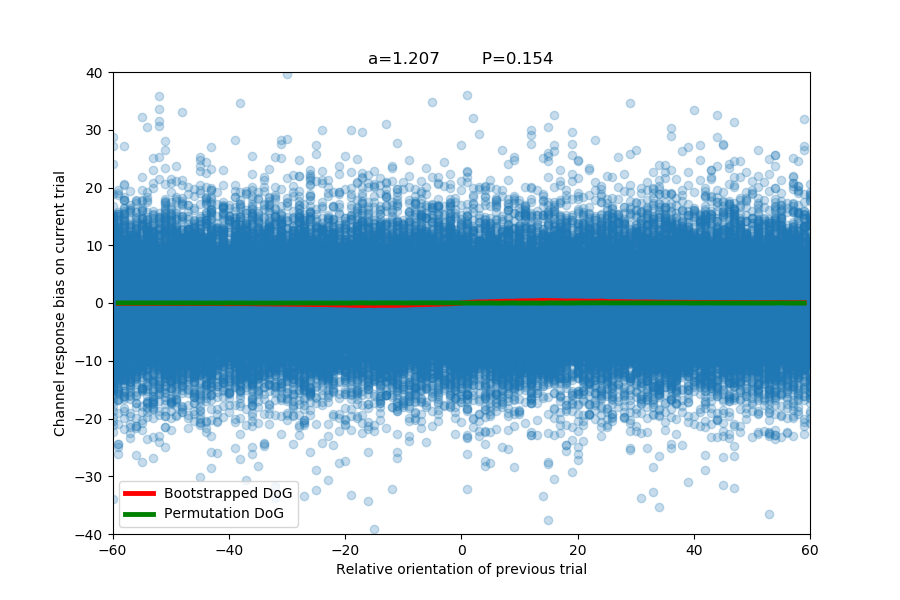
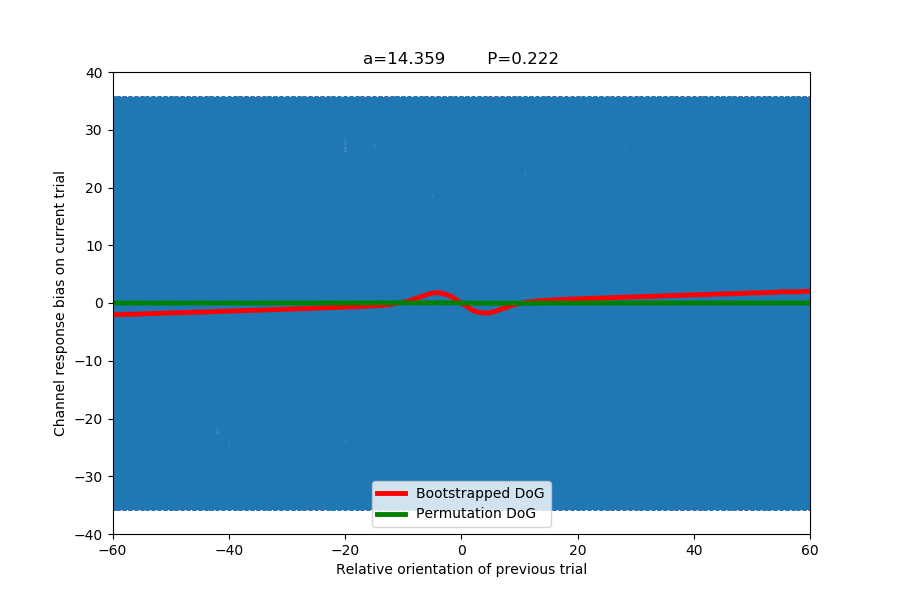
Extra timesteps

diff --git a/code/IEM_ori_MEG.py b/code/IEM_ori_MEG.py
@@ -270,7 +270,7 @@ def run_all_subjects(n_ori_chans, n_p_tests=100, n_exp_tests=20, n_timesteps=16,
         exp_accuracies_4_8[i] /= test_trials
 
         trial_accuracy = trial_accuracy / test_trials
-        exp_t_accs_x.extend(np.linspace(0, 0.375, n_timesteps))
+        exp_t_accs_x.extend(np.linspace(-0.4, -0.025, n_timesteps))
         exp_t_accs_y.extend(trial_accuracy)
 
         avg_response += trial_response
@@ -286,7 +286,7 @@ def run_all_subjects(n_ori_chans, n_p_tests=100, n_exp_tests=20, n_timesteps=16,
     plt.figure(figsize=(8, 8))
     plt.imshow(exp_timestep_ch_response, aspect="equal")
     plt.colorbar()
-    plt.xticks(ticks=np.arange(-0.5, n_timesteps+0.5, 1), labels=np.arange(0, 400, 25).astype(int))
+    plt.xticks(ticks=np.arange(-0.5, n_timesteps+0.5, 1), labels=np.arange(-400, -25, 25).astype(int))
     plt.yticks(ticks=np.arange(-0.5, n_ori_chans+0.5, 1), labels=np.arange(0, 180, 180 / n_ori_chans).astype(int))
     plt.xlabel("Timestep (millisencods)")
     plt.ylabel("Channel")
@@ -333,7 +333,7 @@ def run_all_subjects(n_ori_chans, n_p_tests=100, n_exp_tests=20, n_timesteps=16,
         perm_accuracies.append(temp_perm_accuracy)
 
         perm_trial_acc = perm_trial_acc / total_trials
-        perm_t_accs_x.extend(np.linspace(0, 0.375, n_timesteps))
+        perm_t_accs_x.extend(np.linspace(-0.4, -0.025, n_timesteps))
         perm_t_accs_y.extend(perm_trial_acc)
 
         perm_avg_response = total_response / total_trials
@@ -398,7 +398,7 @@ def run_all_subjects(n_ori_chans, n_p_tests=100, n_exp_tests=20, n_timesteps=16,
             timestep_accuracy_p_values[j] += len(perm_results[perm_results[:, j] > exp_results[i, j]])
 
     timestep_accuracy_p_values /= (n_exp_tests * n_p_tests)
-    timesteps = np.linspace(0, 0.4 - (0.4 / n_timesteps), n_timesteps) 
+    timesteps = np.linspace(-0.4, -0.025, n_timesteps) 
     timestep_width = 0.4 / n_timesteps
     sig_ranges = [[]]
     for i in range(n_timesteps):
@@ -416,7 +416,7 @@ def run_all_subjects(n_ori_chans, n_p_tests=100, n_exp_tests=20, n_timesteps=16,
     sns.lineplot(perm_t_accs_x, perm_t_accs_y, label="Permutation Accuracy", ci="sd")
     for rng in sig_ranges:
         if len(rng) > 0:
-            plt.axvspan(max(rng[0], 0), rng[1], color="lightgreen", alpha=0.25)
+            plt.axvspan(max(rng[0], -0.4), rng[1], color="lightgreen", alpha=0.25)
     
     plt.legend()
     plt.ylim(0.05, 0.15)
@@ -425,19 +425,20 @@ def run_all_subjects(n_ori_chans, n_p_tests=100, n_exp_tests=20, n_timesteps=16,
     plt.clf()
 
 def calc_sd_bias(coeffs, timestep):
+    weights = np.array([0, -0.25, -0.5, -1, 0, 1, 0.5, 0.25, 0]) * 20
 
-    return np.dot(coeffs[:, :, timestep], np.linspace(-1, 1, 9))
+    return np.dot(np.minimum(np.maximum(coeffs[:, :, timestep], 0), 1), weights)
 
-def run_DoG_trial(ch_bias, diffs, bootstrap_size=1000, permutation_test=False):
+def run_DoG_trial(ch_bias, diffs, bootstrap_size=10000, permutation_test=False):
     bootstrap_idx = np.random.choice(len(diffs), size=bootstrap_size, replace=True)
     ch_bias_bootstrap = ch_bias[bootstrap_idx]
     diffs_bootstrap = diffs[bootstrap_idx]
 
-    diffs_bootstrap = diffs_bootstrap[np.abs(ch_bias_bootstrap) < 5]
-    ch_bias_bootstrap = ch_bias_bootstrap[np.abs(ch_bias_bootstrap) < 5]
+    diffs_bootstrap = diffs_bootstrap[np.abs(ch_bias_bootstrap) <= 40]
+    ch_bias_bootstrap = ch_bias_bootstrap[np.abs(ch_bias_bootstrap) <= 40]
 
-    ch_bias_bootstrap = ch_bias_bootstrap[np.abs(diffs_bootstrap) < 60]
-    diffs_bootstrap = diffs_bootstrap[np.abs(diffs_bootstrap) < 60]
+    ch_bias_bootstrap = ch_bias_bootstrap[np.abs(diffs_bootstrap) <= 60]
+    diffs_bootstrap = diffs_bootstrap[np.abs(diffs_bootstrap) <= 60]
 
     if permutation_test:
         np.random.shuffle(diffs_bootstrap)
@@ -445,7 +446,7 @@ def run_DoG_trial(ch_bias, diffs, bootstrap_size=1000, permutation_test=False):
     result = gmodel.fit(ch_bias_bootstrap, x=diffs_bootstrap, b=0.03)
     return result.best_fit, diffs_bootstrap, result.params["a"]
 
-def iem_sd_dog(n_ori_chans, n_exp_tests=25, n_bootstraps=1000, n_permutations=10000, n_timesteps=16):
+def iem_sd_dog(n_ori_chans, n_exp_tests=2, n_bootstraps=1000, n_permutations=10000, n_timesteps=16):
     model = InvertedEncoder(n_ori_chans)
     ch_bias_list = [[] for _ in range(16)]
     diffs_list = []
@@ -463,10 +464,12 @@ def iem_sd_dog(n_ori_chans, n_exp_tests=25, n_bootstraps=1000, n_permutations=10
 
 
     diffs_list = np.array(diffs_list)
-    ch_bias = np.array(ch_bias_list)    
+    ch_bias = np.array(ch_bias_list)
+    print(ch_bias[0])    
 
     
-
+    a_list = np.zeros((n_timesteps, n_bootstraps))
+    p_values = np.zeros(n_timesteps)
     for j in range(n_timesteps):
         print("timestep: %d" % j)
         dog_fit_list = []
@@ -475,23 +478,21 @@ def iem_sd_dog(n_ori_chans, n_exp_tests=25, n_bootstraps=1000, n_permutations=10
         dog_fit_p_list = []
         diffs_bootstrap_p_list = []
 
-        a_list = np.zeros(n_bootstraps)
-        p_value = 0
         for i in range(n_bootstraps):
             dog_fit, diffs_bootstrap, a_bootstrap = run_DoG_trial(ch_bias[j], diffs)
-            a_list[i] = a_bootstrap
+            a_list[j, i] = a_bootstrap
             if i % 10 == 0:
                 dog_fit_list.extend(dog_fit)
                 diffs_bootstrap_list.extend(diffs_bootstrap)
             
         for i in range(n_permutations):
             dog_fit, diffs_bootstrap, a_bootstrap = run_DoG_trial(ch_bias[j], diffs, permutation_test=True)
-            p_value += len(a_list[a_list <= a_bootstrap])
+            p_values[j] += len(a_list[j][a_list[j] <= a_bootstrap])
             if i % 100 == 0:
                 dog_fit_p_list.extend(dog_fit)
                 diffs_bootstrap_p_list.extend(diffs_bootstrap)
 
-        p_value /= (n_permutations * n_bootstraps)
+        p_values[j] /= (n_permutations * n_bootstraps)
 
         plt.figure(figsize=(9, 6))
         plt.scatter(diffs_list, ch_bias[j], alpha=0.25)
@@ -502,10 +503,20 @@ def iem_sd_dog(n_ori_chans, n_exp_tests=25, n_bootstraps=1000, n_permutations=10
         plt.ylabel("Channel response bias on current trial")
         plt.xlim((-60, 60))
         plt.ylim((-40, 40))
-        plt.title("a={:.3f}        P={:.3f}".format(a_list.mean(), p_value))
+        plt.title("a={:.3f}        P={:.3f}".format(a_list[j].mean(), p_values[j]))
         plt.savefig("../Figures/final_results/bias/bias_dog_t%d.png" % j)
         plt.clf()
 
+    print(a_list.mean(1))
+    print(a_list.max(0))
+    plt.figure(figsize=(9, 6))
+    xs = np.linspace(0, 0.375, 16)
+    ys = a_list.mean(axis=1)
+    plt.bar(xs, ys, width=0.025)
+    for i in range(9):
+        if p_values[i] <= 0.05:
+            plt.text(xs[i], ys[i]+0.01, "*")
+    plt.savefig("../Figures/final_results/bias/bias_all.png")
             
     return
 
@@ -529,6 +540,118 @@ def iem_sd_all(n_ori_chans, n_bins=15, percept_data=False, n_p_tests=100, n_exp_
             avg_response[:, j] += (np.sum(bins[:, :, j], axis=0) / np.sum(bin_sizes))
 
     avg_response /= (n_exp_tests)
+    perm_bin_accuracies = np.zeros((n_p_tests, n_bins, n_ori_chans, n_timesteps))
+    for i in range(n_p_tests):
+        print("Permutation Test: %i" %i)
+        bin_sizes = np.zeros(n_bins)
+        bins = np.zeros((n_bins, n_ori_chans, n_timesteps))
+        for subj in meg_subj_lst:
+            temp_bins, temp_bin_sizes = IEM.run_sd_subject(subj, n_bins=n_bins, permutation_test=True)
+            bins += temp_bins
+            bin_sizes += temp_bin_sizes
+        
+        for j in range(n_timesteps):
+            perm_bin_accuracies[i, :, :, j] = bins[:, :, j] / bin_sizes[:, None]
+
+    perm_avg_bin_accuracies = np.zeros(perm_bin_accuracies.shape)
+    avg_bin_accuracies = np.zeros(bin_accuracies.shape)
+    for i in range(n_p_tests):
+        for j in range(n_timesteps):
+            perm_avg_bin_accuracies[i, :, :, j] += perm_bin_accuracies[i, :, :, j] - avg_response[:, j]
+        
+    for i in range(n_exp_tests):
+        for j in range(n_timesteps):
+            avg_bin_accuracies[i, :, :, j] += bin_accuracies[i, :, :, j] - avg_response[:, j]
+
+    ptest_comp = np.zeros((n_bins, n_ori_chans, n_timesteps))
+    for i in range(n_p_tests):
+        for j in range(n_exp_tests):
+            gr_eq_vals = np.abs(perm_avg_bin_accuracies[i, :, :, :]) >= np.abs(avg_bin_accuracies[j, :, :, :])
+            ptest_comp[gr_eq_vals] += 1.0
+    ptest_comp /= (n_p_tests * n_exp_tests)
+        
+    for j in range(n_timesteps):
+        figure = plt.figure(figsize=(8,15))
+
+        
+
+        ax0 = figure.add_subplot(3, 1, 1)
+        im0 = ax0.imshow(bin_accuracies[:, :, :, j].mean(axis=0).T, aspect="equal", vmin=0.15, vmax=0.35)
+        ax0.set_xlabel("Relative Previous Orientation")
+        figure.colorbar(im0, ax=ax0)
+        plt.xticks(ticks=np.arange(-0.5, n_bins+0.5, 1), labels=np.linspace(-90, 90, n_bins+1).astype(int))
+        plt.yticks(ticks=np.arange(-0.5, n_ori_chans+0.5, 1), labels=np.arange(0, 180, 180 / n_ori_chans).astype(int))
+        plt.ylabel("Channel response")
+        plt.title("Channel response binned by previous orientation, t=%d" % ((j + 16) * 25))
+
+        ax1 = figure.add_subplot(3, 1, 2)
+        im1 = ax1.imshow(perm_bin_accuracies[:, :, :, j].mean(axis=0).T, aspect="equal", vmin=0.15, vmax=0.35)
+        ax1.set_xlabel("Relative Previous Orientation")
+        figure.colorbar(im1, ax=ax1)
+
+        plt.xticks(ticks=np.arange(-0.5, n_bins+0.5, 1), labels=np.linspace(-90, 90, n_bins+1).astype(int))
+        plt.yticks(ticks=np.arange(-0.5, n_ori_chans+0.5, 1), labels=np.arange(0, 180, 180 / n_ori_chans).astype(int))
+        plt.ylabel("Channel response")
+        plt.title("Permutation")
+
+        ax2 = figure.add_subplot(3, 1, 3)
+        im2 = ax2.imshow(ptest_comp[:, :, j].T, aspect="equal", vmin=0, vmax=1)
+        ax2.set_xlabel("Relative Previous Orientation")
+        figure.colorbar(im2, ax=ax2)
+
+        plt.xticks(ticks=np.arange(-0.5, n_bins+0.5, 1), labels=np.linspace(-90, 90, n_bins+1).astype(int))
+        plt.yticks(ticks=np.arange(-0.5, n_ori_chans+0.5, 1), labels=np.arange(0, 180, 180 / n_ori_chans).astype(int))
+        plt.ylabel("Channel response")
+        plt.title("P Value")
+        
+        
+        
+        plt.savefig("../Figures/IEM/python_files/sd_all_t%d.png" %  ((j + 16) * 25))
+        plt.clf()
+    return
+
+def iem_sd_all_v2(n_ori_chans, n_bins=15, percept_data=False, n_p_tests=100, n_exp_tests=25, n_timesteps=16):
+    IEM = InvertedEncoder(n_ori_chans)
+    avg_response = np.zeros((n_ori_chans, n_timesteps))
+
+    coeffs_list = []
+    diffs_list = []
+   
+    bin_accuracies = np.zeros((n_exp_tests, n_bins, n_ori_chans, n_timesteps))
+    for i in range(n_exp_tests):
+        print("Experimental Test: %i" % i)
+        for subj in meg_subj_lst:
+            coeffs, diffs = IEM.run_sd_dog(subj)
+            coeffs_list.extend(coeffs)
+            diffs_list.extend(diffs)
+        
+    bins = np.zeros((n_bins, n_ori_chans, n_timesteps))
+    
+    coeffs_list = np.array(coeffs_list)
+    diffs_list = np.array(diffs_list).astype(int)
+
+    for i in range(n_bins):
+        bins[i] = np.sum(coeffs_list[diffs_list == i], axis=0)
+        bins[i] /= len(diffs_list[diffs_list == i])
+
+    avg_response = coeffs_list.mean(axis=0)
+
+    perm_bin_sizes = np.zeros(n_bins)
+    perm_bins = np.zeros((n_bins, n_ori_chans, n_timesteps))
+    perm_diffs_list = diffs_list[:]
+    for i in range(n_p_tests):
+        for j in range(n_bins):
+            np.random.shuffle(perm_diffs_list)
+            perm_bins[j] += np.sum(coeffs_list[perm_diffs_list == j], axis=0)
+            perm_bin_sizes[j] += len(perm_diffs_list[perm_diffs_list==j])
+
+    for i in range(n_bins):
+        perm_bins[i] /= perm_bin_sizes[i]
+
+    
+
+
+
     perm_bin_accuracies = np.zeros((n_p_tests, n_bins, n_ori_chans, n_timesteps))
     for i in range(n_p_tests):
         print("Permutation Test: %i" %i)
@@ -601,11 +724,11 @@ def iem_sd_all(n_ori_chans, n_bins=15, percept_data=False, n_p_tests=100, n_exp_
 
 def main():
     #run_all_subjects(9, percept_data=False)
-    #run_all_subjects(9, time_shift=-1)
+    run_all_subjects(9, time_shift=-1)
     #load_behavior("KA")
     #load_percept_data("KA")
     #iem_sd_all(9)
-    iem_sd_dog(9, n_exp_tests=10, n_bootstraps=1000, n_permutations=10000)
+    #iem_sd_dog(9, n_exp_tests=25, n_bootstraps=1000, n_permutations=10000)
 
 if __name__ == "__main__":
     main()

diff --git a/code/DoG.py b/code/DoG.py
@@ -129,23 +129,21 @@ def run_ptestv2(n_bootstraps=5000, n_permutations=100000, bootstrap_size=1000):
                 perm_fit_list[1].extend(result.best_fit)
 
 
-    a_list = a_list.mean(axis=0)
-    a_perm_list = a_perm_list.mean(axis=0)
+    a_list = a_list.flatten()
+    a_perm_list = a_perm_list.flatten()
     p_value = 0
 
     for i in range(n_bootstraps):
-        bootstrap_idx = np.random.choice(n_bootstraps, bootstrap_size, replace=True)
+        bootstrap_idx = np.random.choice(len(a_list), bootstrap_size, replace=True)
         boot_a_list = a_list[bootstrap_idx]
 
-        bootstrap_idx = np.random.choice(n_permutations, bootstrap_size, replace=True)
+        bootstrap_idx = np.random.choice(len(a_perm_list), bootstrap_size, replace=True)
         boot_a_perm_list = a_perm_list[bootstrap_idx]
 
         if boot_a_perm_list.mean() >= boot_a_list.mean():
             p_value += 1
         
     p_value /= (n_bootstraps)
-
-    # also try with axis = 1?
 
     rel_or, error = [], []
     for subj in meg_subj_lst:

diff --git a/code/load_data.py b/code/load_data.py
@@ -41,9 +41,9 @@ def generate_epoch_X(epochs, n=500, ch_picks=[], sample_rate=40):
     epochs.load_data().resample(sample_rate)
     meg_epochs = []
     if len(ch_picks) == 0:
-        meg_epochs = epochs.copy().pick_types(meg=True, eeg=False).crop(0, 0.4, False)
+        meg_epochs = epochs.copy().pick_types(meg=True, eeg=False).crop(0.4, 0.8, False)
     else:
-        meg_epochs = epochs.copy().pick_channels(ch_picks).crop(0, 0.4, False)
+        meg_epochs = epochs.copy().pick_channels(ch_picks).crop(-0.4, 0.0, False)
     X = meg_epochs.get_data()
     return X[:n]
 
